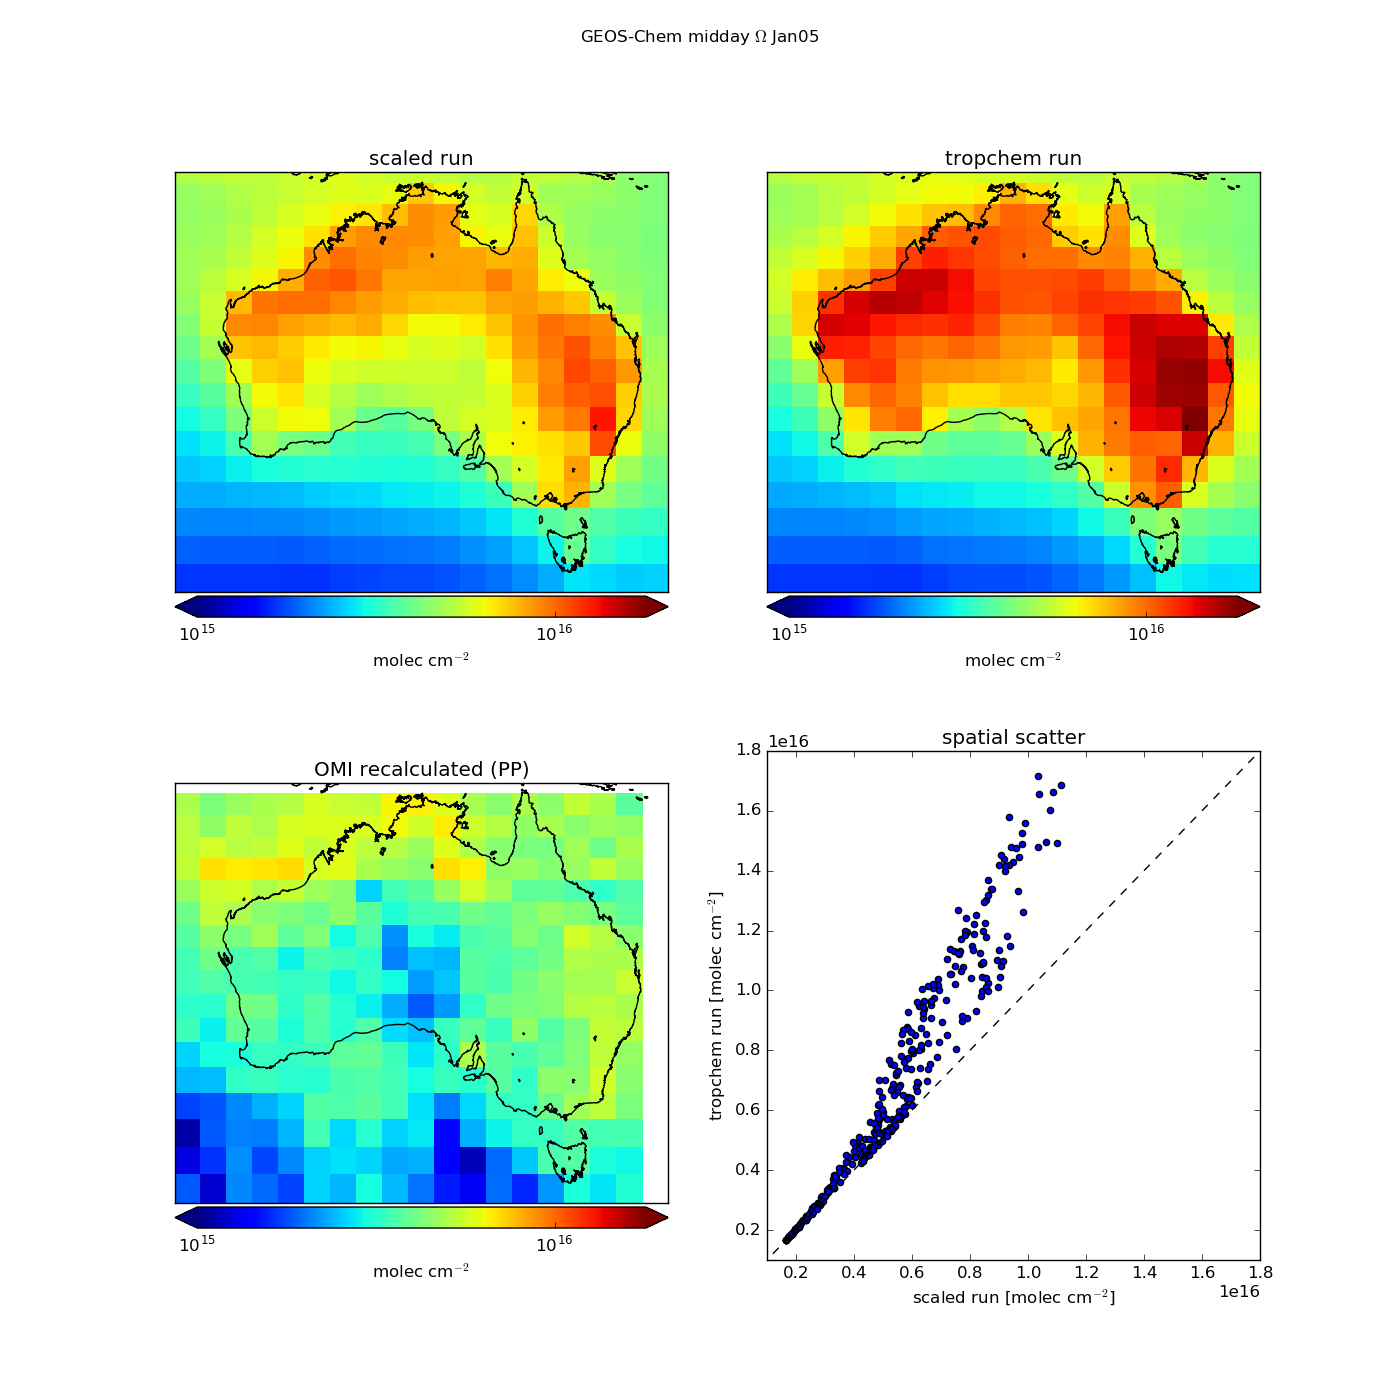
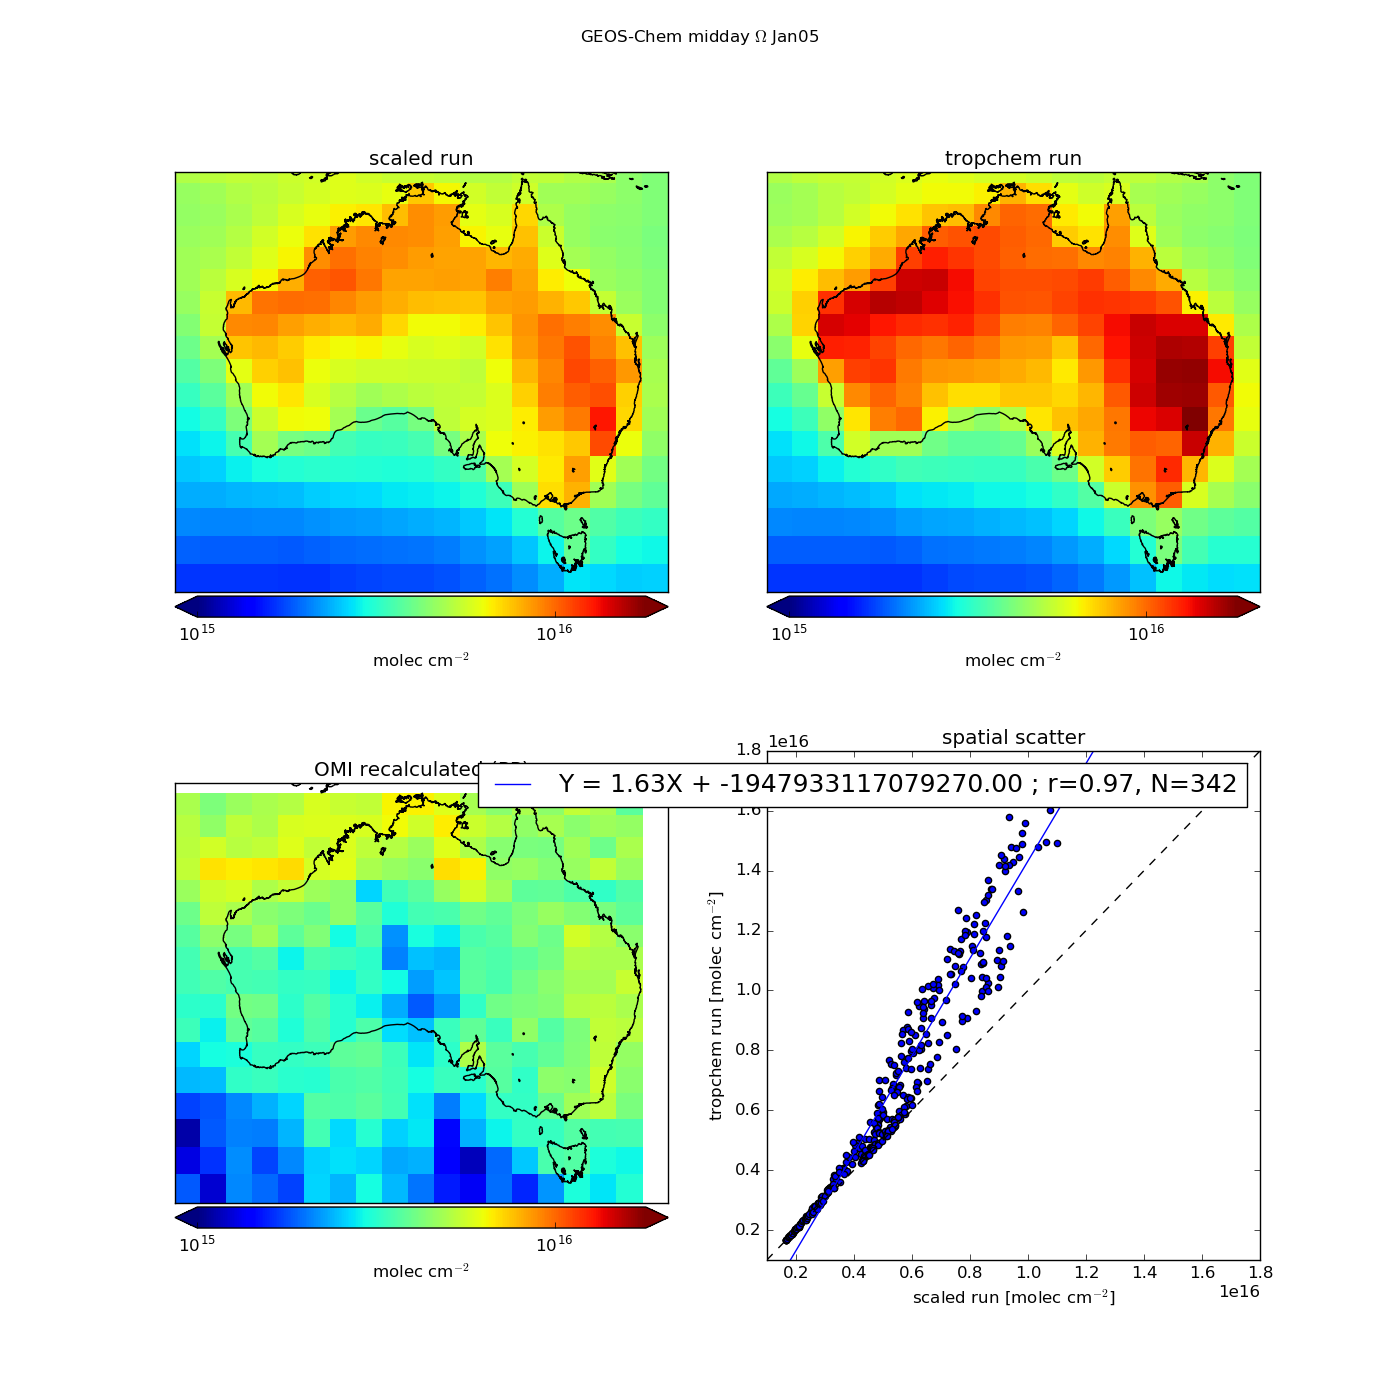
updated new_emiss mapping plot

Changed region(s): [[0.3379, 0.5221, 0.8907, 0.5836]]

diff --git a/tests/test_new_emissions.py b/tests/test_new_emissions.py
@@ -393,7 +393,7 @@ def spatial_comparisons(d0, d1, dlabel):
     #dstr = d0.strftime("%Y%m%d")
     pname1 = 'Figs/new_emiss/HCHO_total_columns_map_%s.png'%dlabel
     pname2 = 'Figs/new_emiss/O3_surf_map_%s.png'%dlabel
-    pname3 = 'Figs/new_emiss/NO_trop_columns_map_%s.png'%dlabel
+    pname3 = 'Figs/new_emiss/NO_surf_map_%s.png'%dlabel
 
     satkeys = ['IJ-AVG-$_ISOP', 'IJ-AVG-$_CH2O',
                'IJ-AVG-$_NO2',     # NO2 in ppbv
@@ -452,8 +452,9 @@ def spatial_comparisons(d0, d1, dlabel):
     # one plot for hcho trop columns, similar for surface O3, and then for NO
     # order: hcho, O3, NO
     vmins = [1e15, 10, 0]
-    vmaxs = [1.8e16, 40, 10]
+    vmaxs = [1.8e16, 40, 1.8]
     units = ['molec cm$^{-2}$', 'ppb', 'ppb']
+    linears= [False,True,True]
     comparison_plots = [ omi_pp_map, None, None ]
     comparison_titles= ['OMI recalculated (PP)', '', '']
     comparison_lats  = [lats_lr, None, None]
@@ -467,19 +468,20 @@ def spatial_comparisons(d0, d1, dlabel):
 
     for i in range(3):
         vmin=vmins[i]; vmax=vmaxs[i]; unit=units[i]; pname=pnames[i]
+        linear=linears[i]
         f=plt.figure(figsize=[14,14])
 
         plt.subplot(2,2,1)
-        pp.createmap(first_maps[i],lats,lons,aus=True, vmin=vmin,vmax=vmax, clabel=unit)
+        pp.createmap(first_maps[i],lats,lons,aus=True, vmin=vmin,vmax=vmax, clabel=unit, linear=linear)
         plt.title('scaled run')
 
         plt.subplot(2,2,2)
-        pp.createmap(second_maps[i],lats,lons,aus=True, vmin=vmin,vmax=vmax, clabel=unit)
+        pp.createmap(second_maps[i],lats,lons,aus=True, vmin=vmin,vmax=vmax, clabel=unit, linear=linear)
         plt.title('tropchem run')
         
         if comparison_plots[i] is not None:
             plt.subplot(2,2,3)
-            pp.createmap(comparison_plots[i], comparison_lats[i], comparison_lons[i], aus=True, vmin=vmin,vmax=vmax, clabel=unit)
+            pp.createmap(comparison_plots[i], comparison_lats[i], comparison_lons[i], aus=True, vmin=vmin,vmax=vmax, clabel=unit, linear=linear)
             plt.title(comparison_titles[i])
         
             plt.subplot(2,2,4)
@@ -491,10 +493,13 @@ def spatial_comparisons(d0, d1, dlabel):
         Y=subsets['data'][1].flatten() # trop hcho map
         #Z= scatter coloured by value of OMI PP 
         plt.scatter(X,Y)
+        pp.add_regression(X,Y)
+        plt.legend(loc='best',fontsize=18)
+        
         plt.plot([vmin,vmax],[vmin,vmax], 'k--')# black dotted 1-1 line
         plt.xlim(vmin,vmax)
         plt.ylim(vmin,vmax)
-        plt.title('spatial scatter')
+        plt.title('Surface O$_3$')
         plt.xlabel('scaled run [%s]'%unit)
         plt.ylabel('tropchem run [%s]'%unit)
         #pp.createmap(new_hcho_map,lats,lons,aus=True,title='scaled run', vmin=vmin,vmax=vmax)

diff --git a/classes/GC_class.py b/classes/GC_class.py
@@ -140,7 +140,16 @@ class GC_base:
         '''
         self.ntimes=1
         if 'time' in data:
-            self.ntimes=len(data['time'])
+            if isinstance(data['time'], list):
+                self.ntimes=len(data['time'])
+            elif isinstance(data['time'], np.ndarray):
+                self.ntimes = data['time'].size
+            if __VERBOSE__:
+                print( "CHECK data['time']:")
+                print(type(data['time']))
+                print(np.shape(data['time']))
+                print(data['time'])
+            
         self.nlats=91
         self.nlons=144
         self.nlevs=nlevs
@@ -581,12 +590,11 @@ class GC_sat(GC_base):
         data,attrs = GC_fio.read_bpch(paths,keys=keys)
 
         # may need to handle missing time dim...
-        if not 'time' in data:
-            #tmp=data['IJ-AVG-$_CH2O']
-            times=util.datetimes_from_np_datetime64(dates,reverse=True)
-
-            data['time']=np.array(times)
-            attrs['time']={'desc':'Overpass date (np.datetime64)'}
+        #if not 'time' in data:
+        #tmp=data['IJ-AVG-$_CH2O']
+        times=util.datetimes_from_np_datetime64(dates,reverse=True)
+        data['time']=np.array(times)
+        attrs['time']={'desc':'Overpass date (np.datetime64)'}
 
         attrs['init_date']=day0
         super(GC_sat,self).__init__(data,attrs,nlevs=nlevs)

diff --git a/localtests.py b/localtests.py
@@ -56,11 +56,11 @@ region=pp.__AUSREGION__
 #####
 
 jan1,jan31 = datetime(2005,1,1), datetime(2005,1,31)
+feb1 = datetime(2005,2,1)
+febn = util.last_day(feb1)
 dec1,dec31 = datetime(2005,12,1), datetime(2005,12,31)
 jun1,jun30 = datetime(2005,6,1), datetime(2005,6,30)
-
-latres=0.25
-lonres=0.3125
+jul1,jul31 = datetime(2005,7,1), datetime(2005,7,31)
 
 # start timer
 start1=timeit.default_timer()
@@ -73,8 +73,8 @@ start1=timeit.default_timer()
 #test_new_emissions.hcho_ozone_timeseries(jan1,dec31)
 
 # Test maps between old/new runs
-test_new_emissions.spatial_comparisons(jan1,jan31,'Jan05')
-test_new_emissions.spatial_comparisons(jun1,jun30,'Jun05')
+test_new_emissions.spatial_comparisons(jan1,jan31,'JanFeb05')
+test_new_emissions.spatial_comparisons(jun1,jun30,'JunJul05')
 
 ###########
 ### Record and time STUJFFS

diff --git a/tests/check_files.py b/tests/check_files.py
@@ -148,6 +148,10 @@ def read_multiple_years():
     jan1_06 = datetime(2006,1,1)
     dec31_06 = datetime(2006,12,31)
     
+    sat1 = GC_class.GC_sat(dec1_05,dayN=None,run='tropchem')
+    sat2 = GC_class.GC_sat(jan1_06,dayN=None,run='tropchem')
+    print(sat1.attrs)
+    print(sat2.attrs)
     # Works for new_emissions, something up with tropchem output!?
     for run in ['tropchem',]: #['new_emissions','tropchem']:
         # can read span over 05/06?
@@ -160,3 +164,5 @@ def read_multiple_years():
         print("WORKED: %s run jan05->dec06"%run)
 
     
+if __name__ == '__main__':
+    read_multiple_years()

diff --git a/tests.py b/tests.py
@@ -1745,7 +1745,7 @@ if __name__ == '__main__':
     # high ram test
     #start=timeit.default_timer()
     #test_new_emissions.hcho_ozone_timeseries(datetime(2005,1,1),datetime(2005,12,31))
-    test_new_emissions.spatial_comparisons(datetime(2005,1,1),datetime(2005,2,31), dlabel='Summer_05')
+    test_new_emissions.spatial_comparisons(datetime(2005,1,1),datetime(2005,2,28), dlabel='Summer_05')
     #end=timeit.default_timer()
     #print("TIME: %6.2f minutes for time series analysis"%((end-start)/60.0))
     
